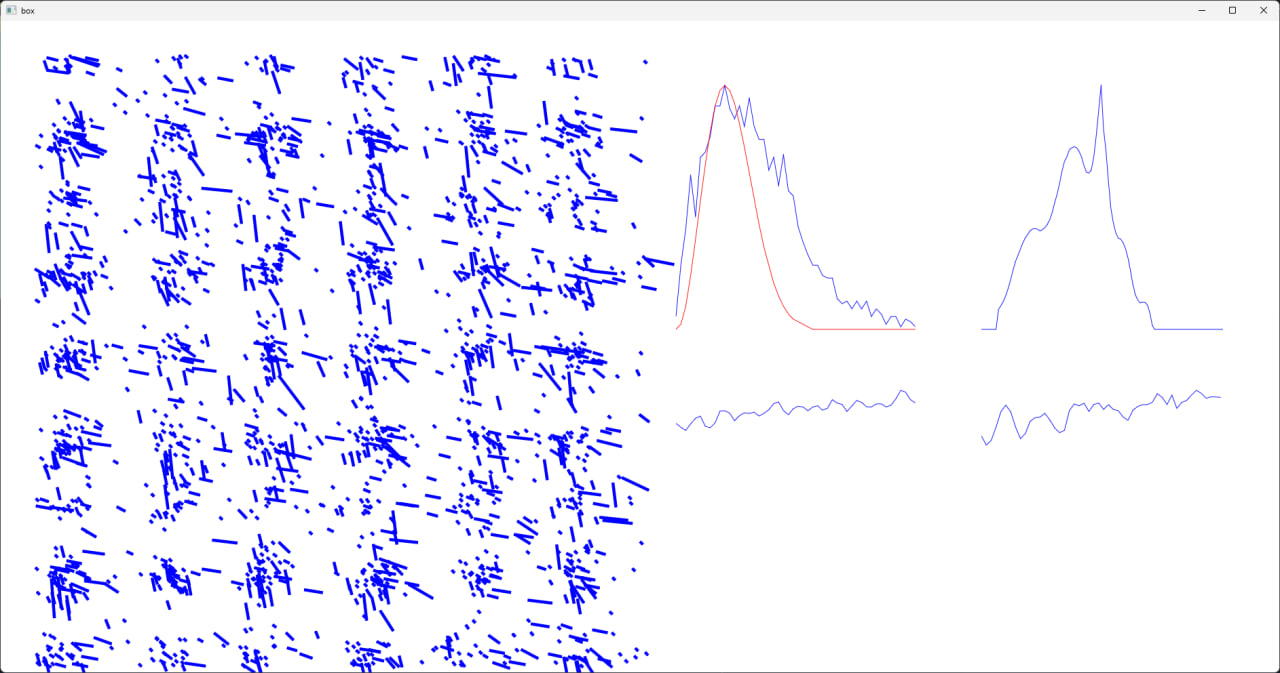
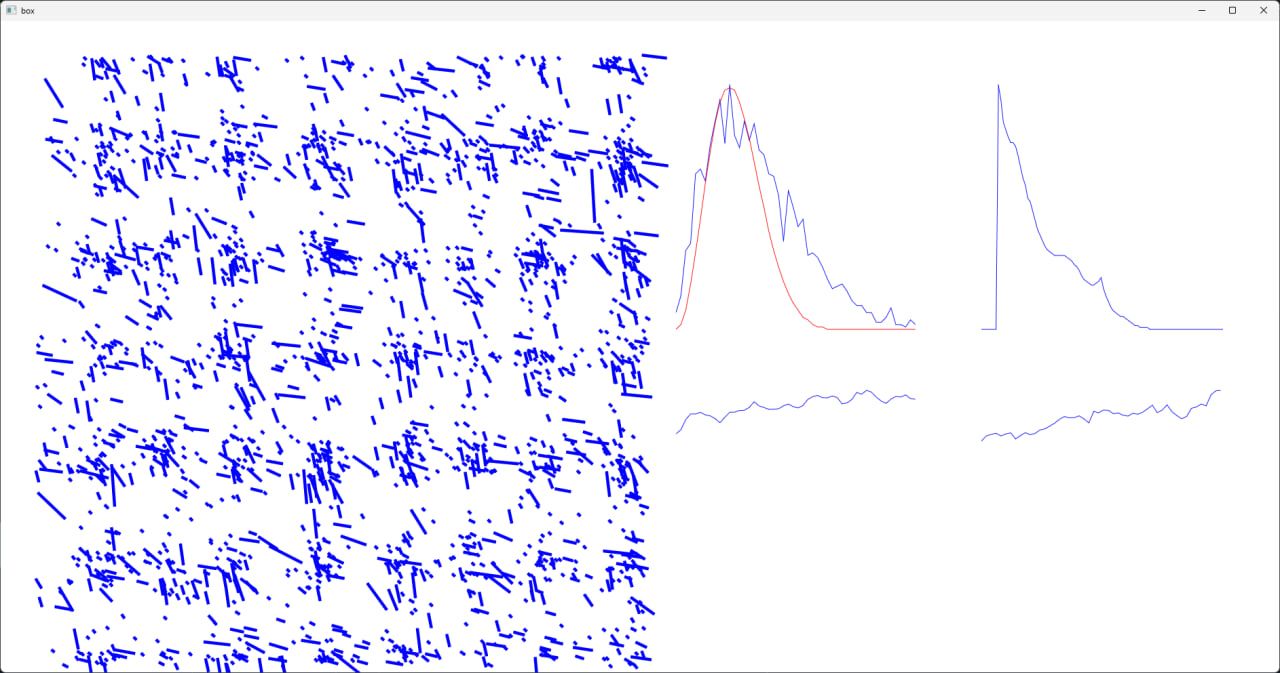
Divide RDF

diff --git a/main.cpp b/main.cpp
@@ -120,6 +120,9 @@ int main(int argc, const char** argv) {
         }
         std::swap(x, p);
         S /= x.size();
+        for (size_t i = 1; i < rdf.size(); ++i) {
+            rdf[i] /= i * i;
+        }
         auto const draw = graphics.step(v, rdf, P, E, S);
         using namespace std::literals::chrono_literals;
         std::fill(f.begin(), f.end(), point { });
